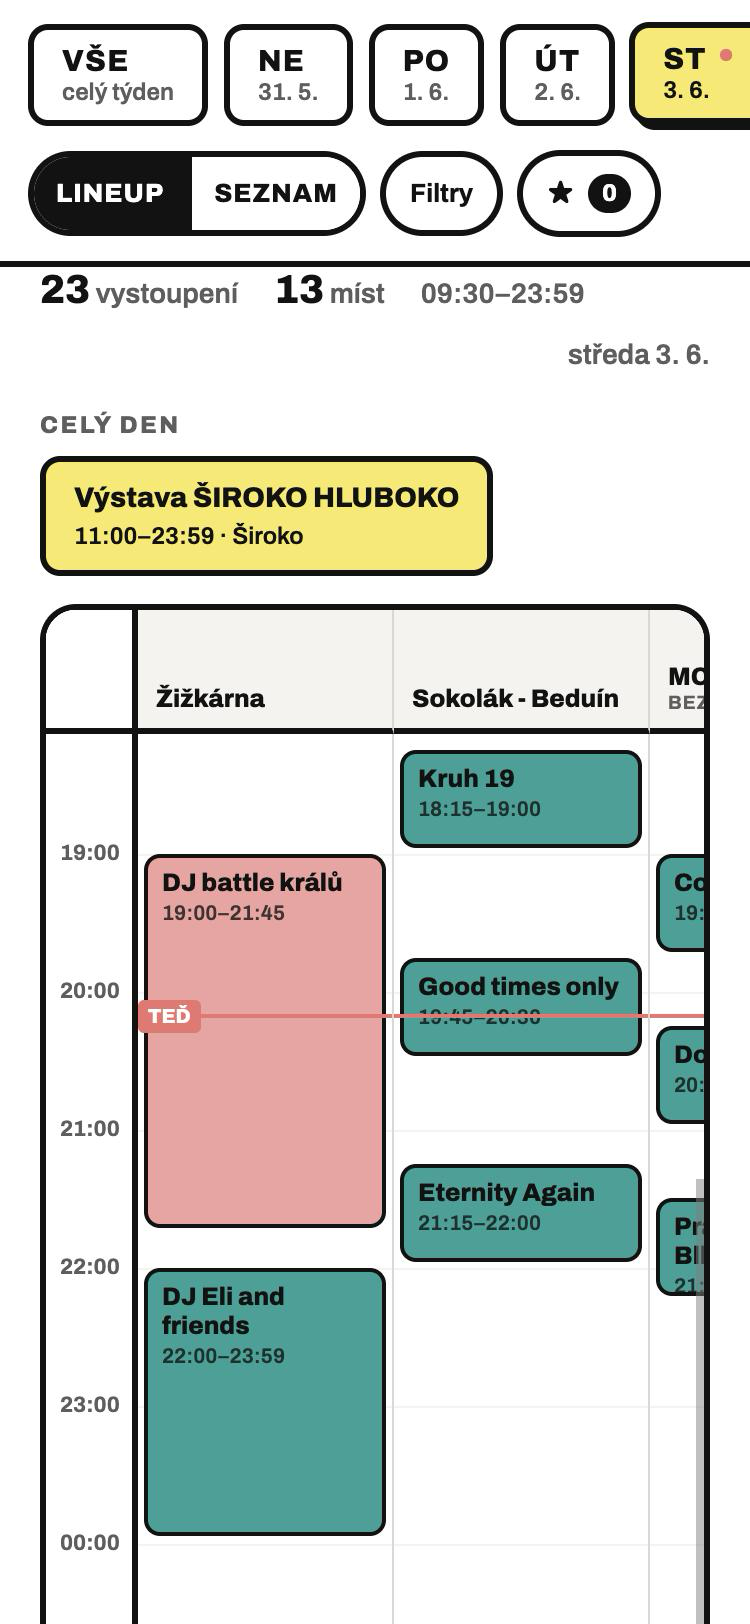
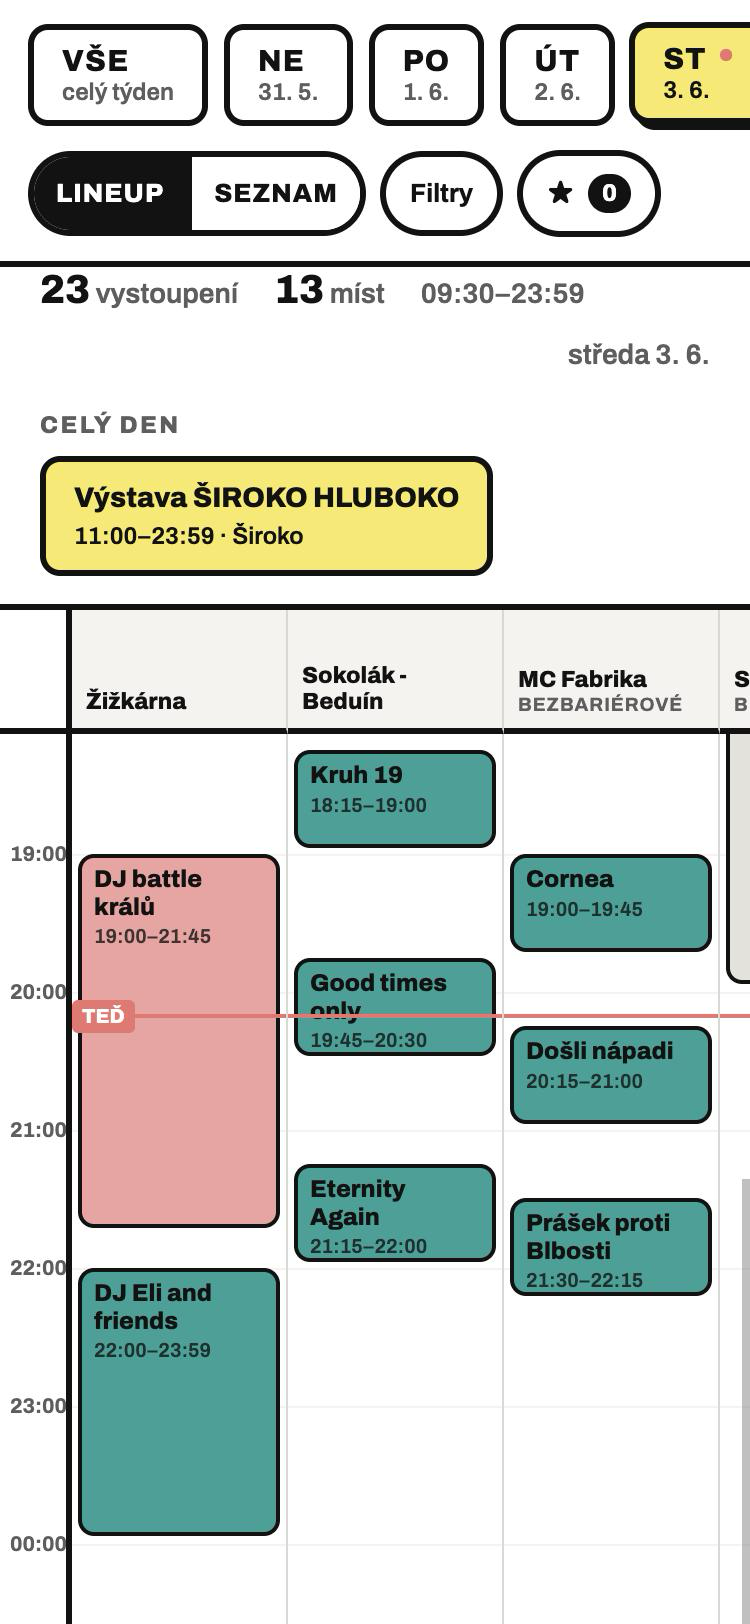
fix: osa jde na mobilu od kraje ke kraji
Postranni okraje stranky brala vodorovne posuvna plocha osy drazeji nez
zbytek webu. Osa je ted na mobilu full-bleed (s bezpecnou zonou telefonu),
sloupec casu 36 px a sloupce scen 108 px: v zaberu 3,14 sceny misto 2,21.

Changed region(s): [[0.0, 0.3695, 1.0, 1.0], [0.9813, 0.7081, 1.0, 1.0]]

diff --git a/docs/wordpress/11-lineup-navrh/prototyp.html b/docs/wordpress/11-lineup-navrh/prototyp.html
@@ -459,10 +459,35 @@ a { color: var(--bm-hlavni-tmav); }
 @media (max-width: 699px) {
   :root {
     --osa-px-za-minutu: 1.15;
-    --osa-sirka-sloupce: 128px;
-    --osa-sirka-casu: 46px;
+    --osa-sirka-sloupce: 108px;
+    --osa-sirka-casu: 36px;
   }
   .bm-hlava { padding: 22px 0 20px; }
+
+  /* ── Osa jde na mobilu od kraje ke kraji ─────────────────────────
+     Jediné místo v celém návrhu, které porušuje postranní okraje
+     stránky. Osa je vodorovně posuvná plocha a na 375 px je každý
+     pixel znát: s okraji se do záběru vejdou 2,2 scény, bez nich 3,1.
+     Okraje si nechává všechno ostatní — nadpisy, ovládání i Seznam.
+
+     Posuv celé stránky z toho vzniknout nemůže, protože osa má
+     overflow: auto, takže si obsah ořízne sama.
+
+     Místo nuly se používá bezpečná zóna telefonu: na výšku je nulová
+     (plná šířka), na šířku odsadí osu od výřezu a zaoblených rohů. */
+  .bm-osa {
+    margin-left: env(safe-area-inset-left, 0px);
+    margin-right: env(safe-area-inset-right, 0px);
+    border-left: 0;
+    border-right: 0;
+    border-radius: 0;
+  }
+  /* Na užší sloupce se musí zmenšit i písmo, jinak zbyde na název
+     kapely pět znaků na řádek. */
+  .bm-osa__misto { font-size: 11.5px; padding: 6px 7px; }
+  .bm-osa__blok { font-size: 12px; padding: 4px 6px; }
+  .bm-osa__blok small { font-size: 10px; }
+  .bm-osa__cas { font-size: 10.5px; padding-left: 5px; }
   /* Ovládání musí zůstat na jedné řádce — lepivý pruh přes čtvrtinu
      displeje je horší než kratší popisky. */
   .bm-sirsi { display: none; }
